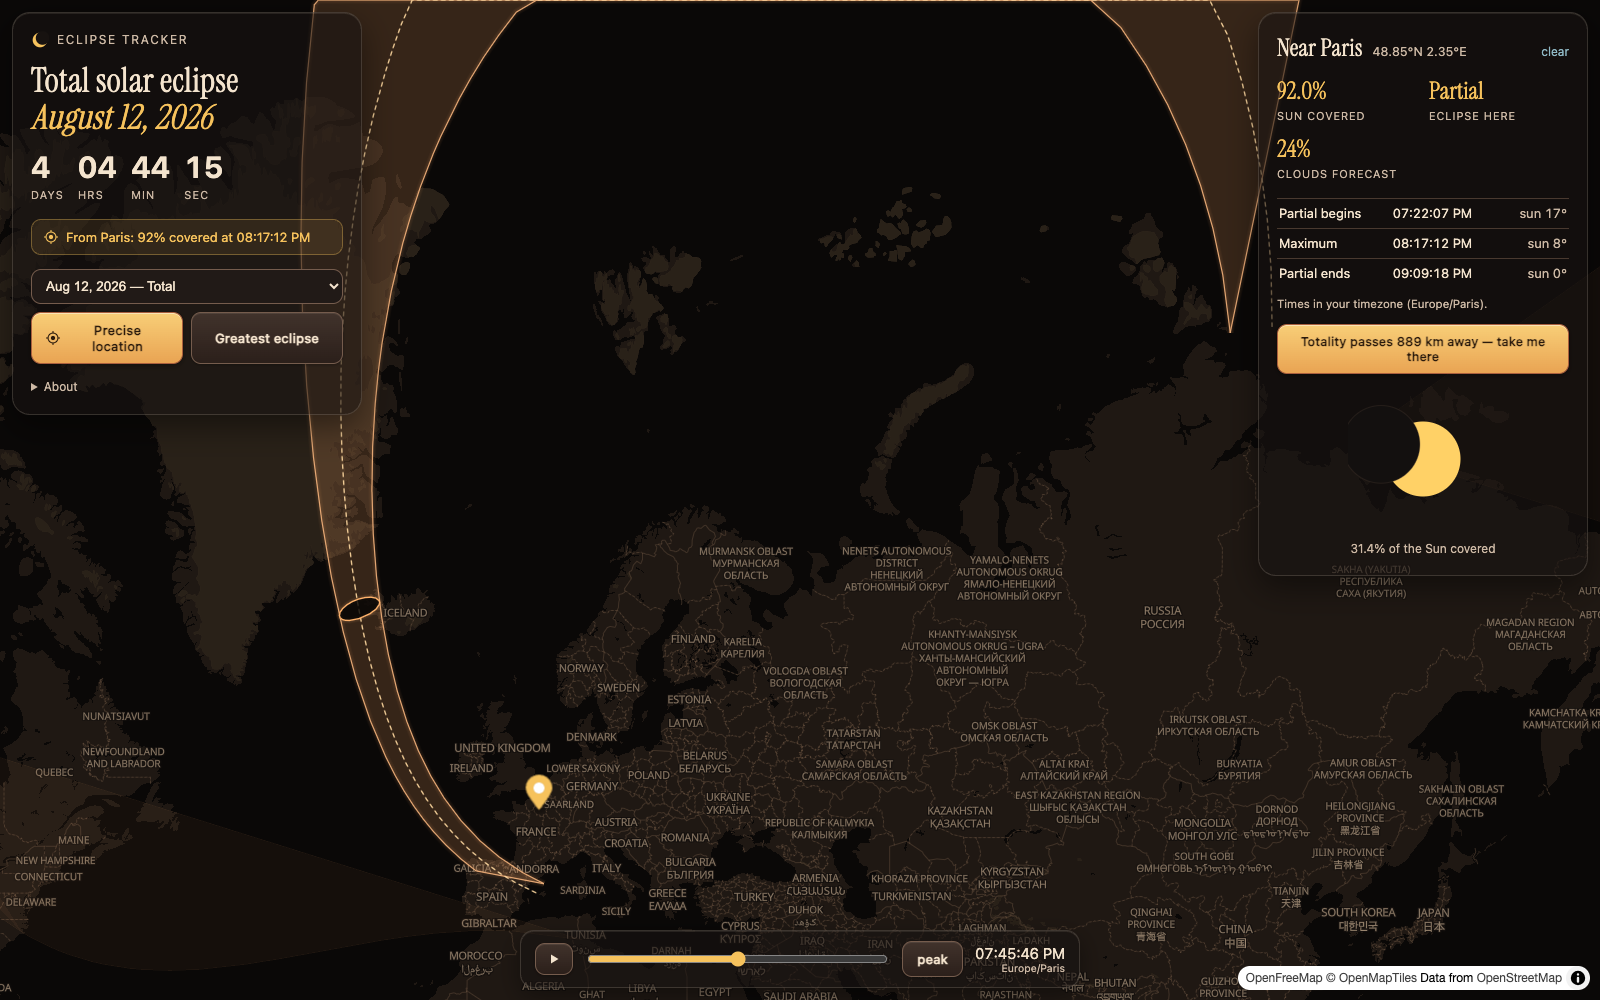
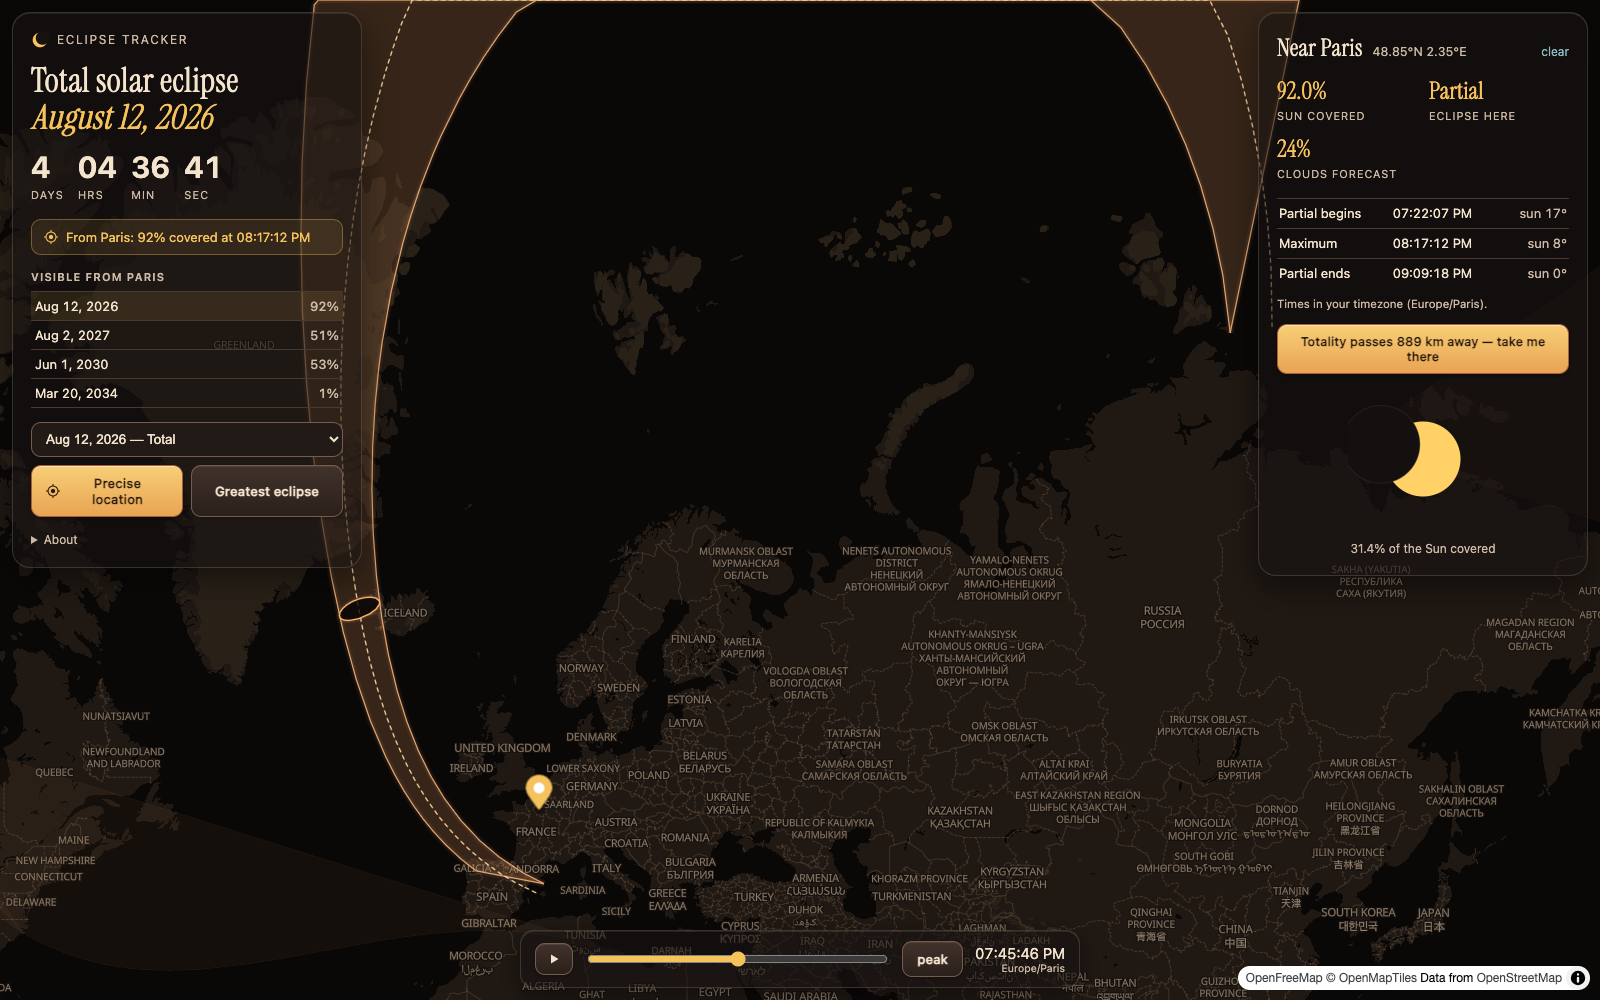
List upcoming eclipses visible from the visitor's location
Sweep the whole catalog against the home location (off the first
paint) and show what each upcoming eclipse looks like from there —
Total here / Annular here / coverage percent — one click to load it.

Changed region(s): [[0.0, 0.248, 0.25, 0.558], [0.0625, 0.155, 0.1562, 0.186]]

diff --git a/src/components/HeroPanel.tsx b/src/components/HeroPanel.tsx
@@ -1,6 +1,6 @@
 import { EclipseKind } from 'astronomy-engine'
 import { useEffect, useMemo, useState } from 'react'
-import type { Home, MarkerPos } from '../App'
+import type { Home, HomeVisibility, MarkerPos } from '../App'
 import type { EclipseEntry } from '../lib/catalog'
 import { countdownTo, fmtDateShort, fmtTime } from '../lib/format'
 import { localCircumstances } from '../lib/local'
@@ -9,8 +9,57 @@ interface Props {
   catalog: EclipseEntry[]
   eclipse: EclipseEntry
   home: Home | null
+  homeVisibility: HomeVisibility | null
   onSelect: (id: string) => void
   onMarker: (pos: MarkerPos | null) => void
+}
+
+function homeKindLabel(v: { kind: EclipseKind; obscuration: number }): string {
+  if (v.kind === EclipseKind.Total) return 'Total here'
+  if (v.kind === EclipseKind.Annular) return 'Annular here'
+  return `${Math.round(v.obscuration * 100)}%`
+}
+
+/** Upcoming eclipses actually visible from the visitor's home. */
+function FromHome({
+  catalog,
+  eclipse,
+  home,
+  homeVisibility,
+  onSelect,
+  onMarker,
+}: Props) {
+  const now = Date.now()
+  const rows = homeVisibility
+    ? catalog.filter((e) => homeVisibility[e.id] && e.peak.date.getTime() > now)
+    : []
+  if (!home || rows.length === 0) return null
+  return (
+    <div className="from-home">
+      <h3>Visible from {home.city ?? 'your location'}</h3>
+      <ul>
+        {rows.map((e) => {
+          const v = homeVisibility![e.id]
+          const strong = v.kind !== EclipseKind.Partial
+          return (
+            <li key={e.id}>
+              <button
+                className={e.id === eclipse.id ? 'current' : ''}
+                aria-current={e.id === eclipse.id ? 'true' : undefined}
+                onClick={() => {
+                  onSelect(e.id)
+                  onMarker({ lat: home.lat, lng: home.lng })
+                }}
+              >
+                <span>{fmtDateShort(e.peak.date)}</span>
+                <b className={strong ? 'strong' : ''}>{homeKindLabel(v)}</b>
+              </button>
+            </li>
+          )
+        })}
+      </ul>
+    </div>
+  )
 }
 
 export const KIND_LABEL: Partial<Record<EclipseKind, string>> = {
@@ -98,7 +147,8 @@ function HomeLine({ eclipse, home, onMarker }: Pick<Props, 'eclipse' | 'home' | 
   )
 }
 
-export function HeroPanel({ catalog, eclipse, home, onSelect, onMarker }: Props) {
+export function HeroPanel(props: Props) {
+  const { catalog, eclipse, home, onSelect, onMarker } = props
   const geolocate = () =>
     navigator.geolocation?.getCurrentPosition((p) =>
       onMarker({ lat: p.coords.latitude, lng: p.coords.longitude }),
@@ -124,6 +174,8 @@ export function HeroPanel({ catalog, eclipse, home, onSelect, onMarker }: Props)
       <Countdown target={peakDate} />
 
       <HomeLine eclipse={eclipse} home={home} onMarker={onMarker} />
+
+      <FromHome {...props} />
 
       <div className="hero-controls">
         <select

diff --git a/src/App.tsx b/src/App.tsx
@@ -1,5 +1,7 @@
 import { useEffect, useMemo, useRef, useState } from 'react'
+import type { EclipseKind } from 'astronomy-engine'
 import { buildCatalog, nextEclipse, type EclipseEntry } from './lib/catalog'
+import { localCircumstances } from './lib/local'
 import { centralPath, footprint, unwrapLngs } from './lib/shadow'
 import { HeroPanel } from './components/HeroPanel'
 import { MapView } from './components/MapView'
@@ -14,6 +16,9 @@ export interface MarkerPos {
 export interface Home extends MarkerPos {
   city: string | null
 }
+
+/** What each catalog eclipse looks like from the visitor's home, by id. */
+export type HomeVisibility = Record<string, { kind: EclipseKind; obscuration: number }>
 
 /** Slider range around the eclipse peak, in minutes. */
 export const WINDOW_MIN = 180
@@ -39,6 +44,7 @@ export function App() {
   const [offsetMin, setOffsetMin] = useState(0)
   const [playing, setPlaying] = useState(false)
   const [home, setHome] = useState<Home | null>(null)
+  const [homeVisibility, setHomeVisibility] = useState<HomeVisibility | null>(null)
 
   // Coarse edge geolocation: personalizes the forecast with no permission
   // prompt. Fails silently outside the deployed Worker (e.g. vite dev).
@@ -52,6 +58,22 @@ export function App() {
       })
       .catch(() => {})
   }, [])
+
+  // Sweep the whole catalog for the home location, off the first paint.
+  useEffect(() => {
+    if (!home) return
+    const t = setTimeout(() => {
+      const out: HomeVisibility = {}
+      for (const e of catalog) {
+        const info = localCircumstances(e, home.lat, home.lng)
+        if (info && info.peak.altitude > 0 && info.obscuration > 0.005) {
+          out[e.id] = { kind: info.kind, obscuration: info.obscuration }
+        }
+      }
+      setHomeVisibility(out)
+    }, 50)
+    return () => clearTimeout(t)
+  }, [home, catalog])
 
   const eclipse = catalog.find((e) => e.id === eclipseId)!
   const path = useMemo(() => centralPath(eclipse.peak, WINDOW_MIN / 60), [eclipse])
@@ -108,6 +130,7 @@ export function App() {
         catalog={catalog}
         eclipse={eclipse}
         home={home}
+        homeVisibility={homeVisibility}
         onSelect={selectEclipse}
         onMarker={setMarker}
       />

diff --git a/src/styles.css b/src/styles.css
@@ -509,3 +509,60 @@ tr.below-horizon {
     bottom: 8px;
   }
 }
+
+/* ---------- eclipses visible from home ---------- */
+
+.from-home h3 {
+  margin: 0 0 6px;
+  font-size: 11px;
+  font-weight: 600;
+  text-transform: uppercase;
+  letter-spacing: 0.1em;
+  color: var(--ds-muted);
+}
+
+.from-home ul {
+  list-style: none;
+  margin: 0;
+  padding: 0;
+  max-height: 168px;
+  overflow-y: auto;
+  border-top: 1px solid var(--ds-line);
+}
+
+.from-home li button {
+  display: flex;
+  align-items: baseline;
+  justify-content: space-between;
+  gap: 12px;
+  width: 100%;
+  padding: 6px 4px;
+  background: none;
+  border: none;
+  border-bottom: 1px solid var(--ds-line);
+  border-radius: 0;
+  color: var(--ds-ink);
+  font-size: 13px;
+  font-variant-numeric: tabular-nums;
+  cursor: pointer;
+  transition: background var(--motion-fast);
+}
+
+.from-home li button:hover {
+  background: rgba(244, 228, 206, 0.05);
+}
+
+.from-home li button.current {
+  background: rgba(246, 194, 92, 0.1);
+}
+
+.from-home li b {
+  font-weight: 500;
+  color: var(--ds-muted);
+}
+
+.from-home li b.strong {
+  color: var(--gold);
+  font-family: var(--font-display);
+  font-size: 15px;
+}
